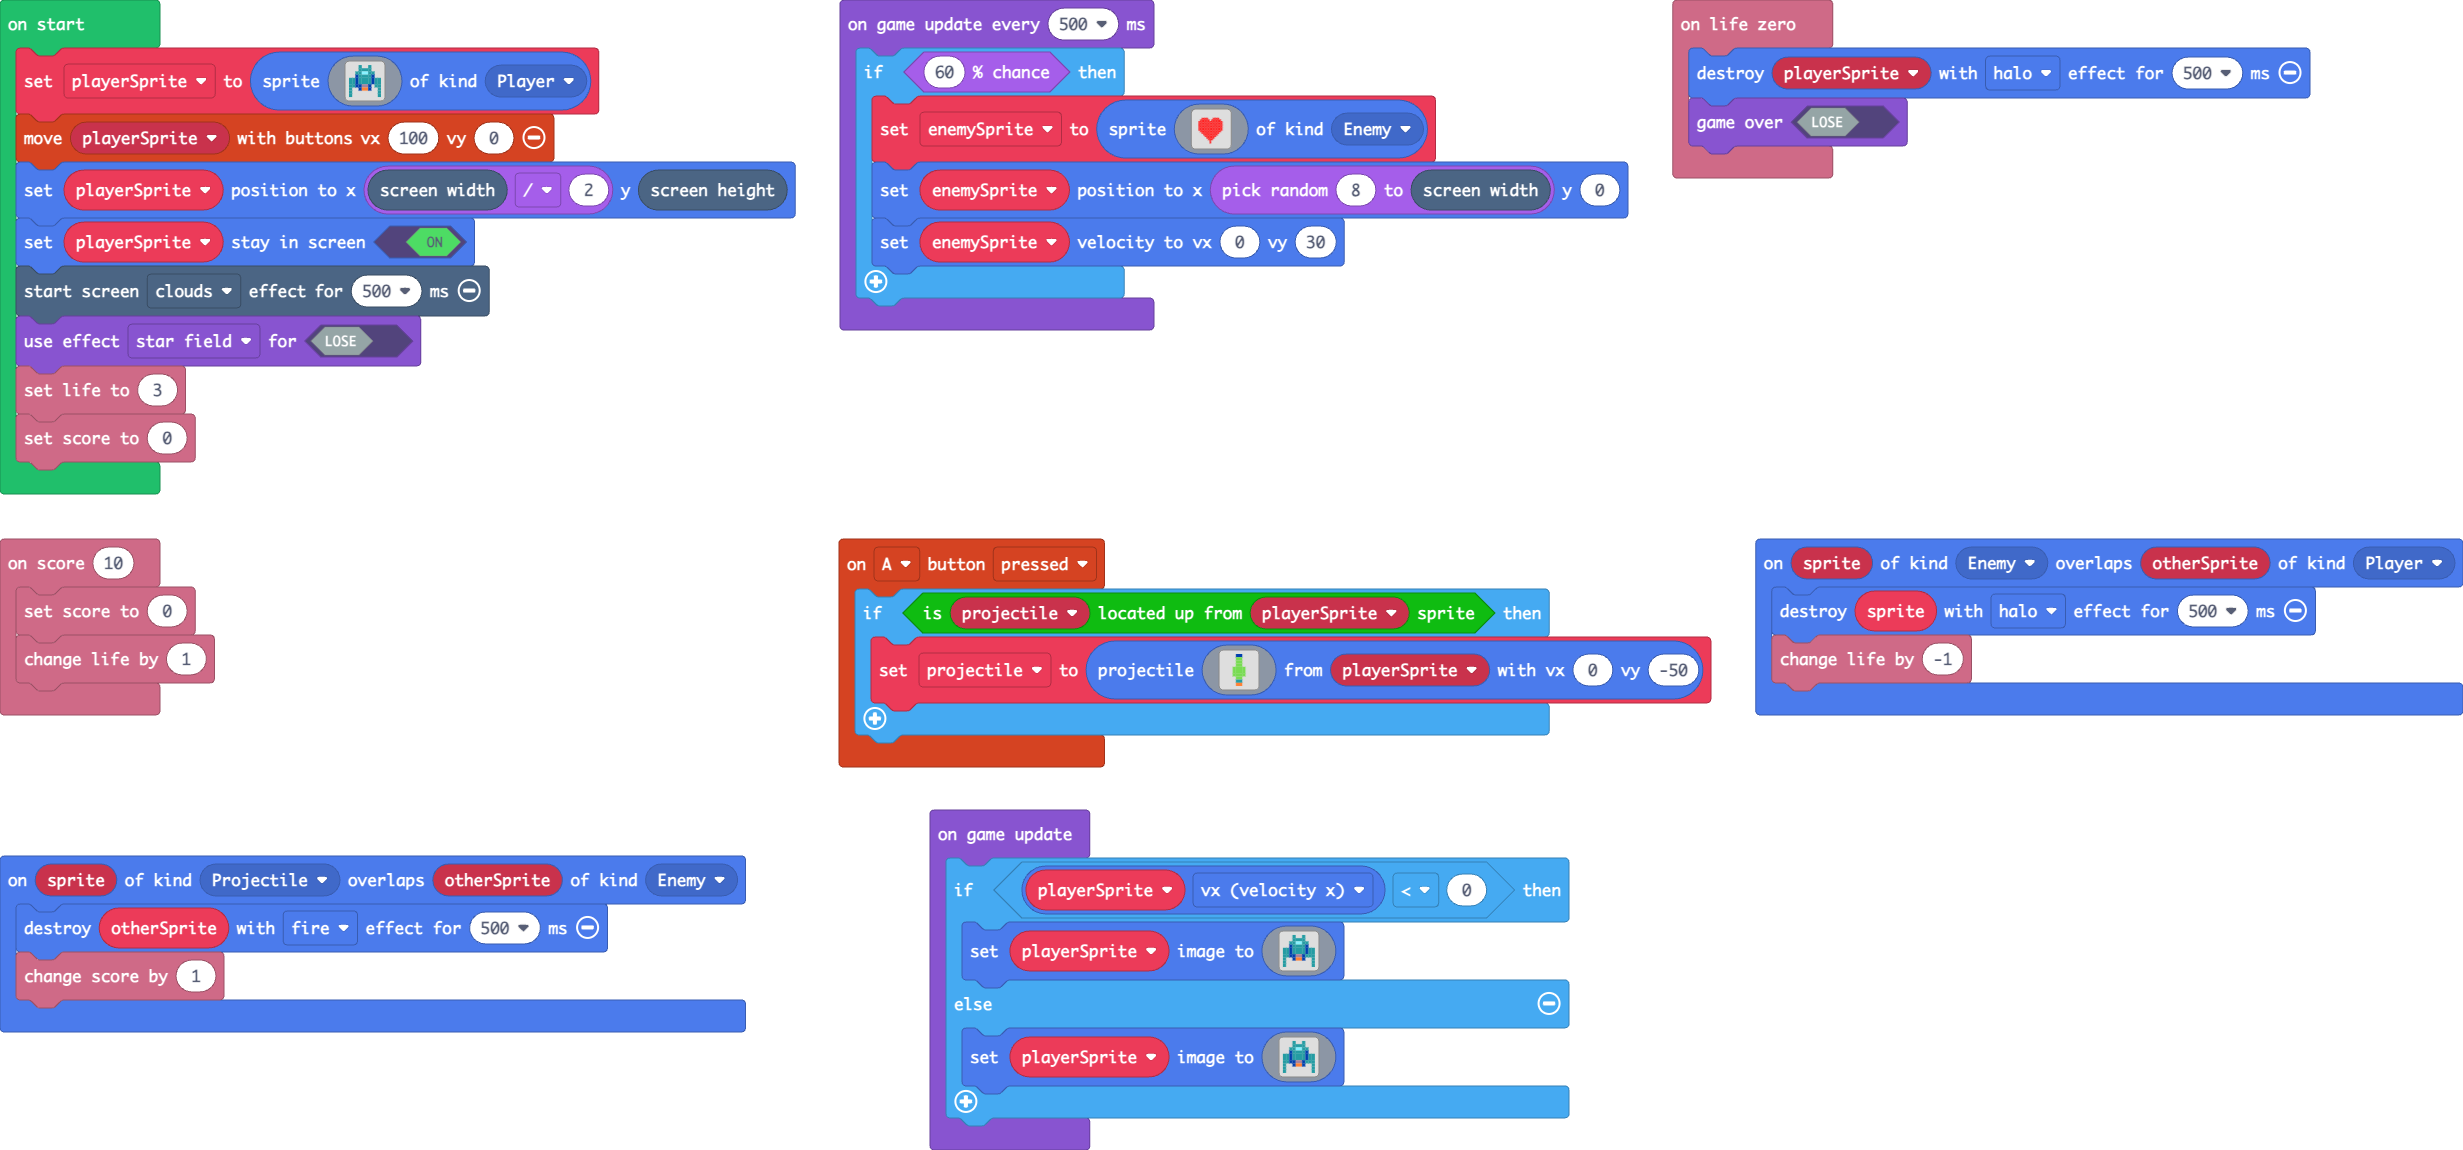
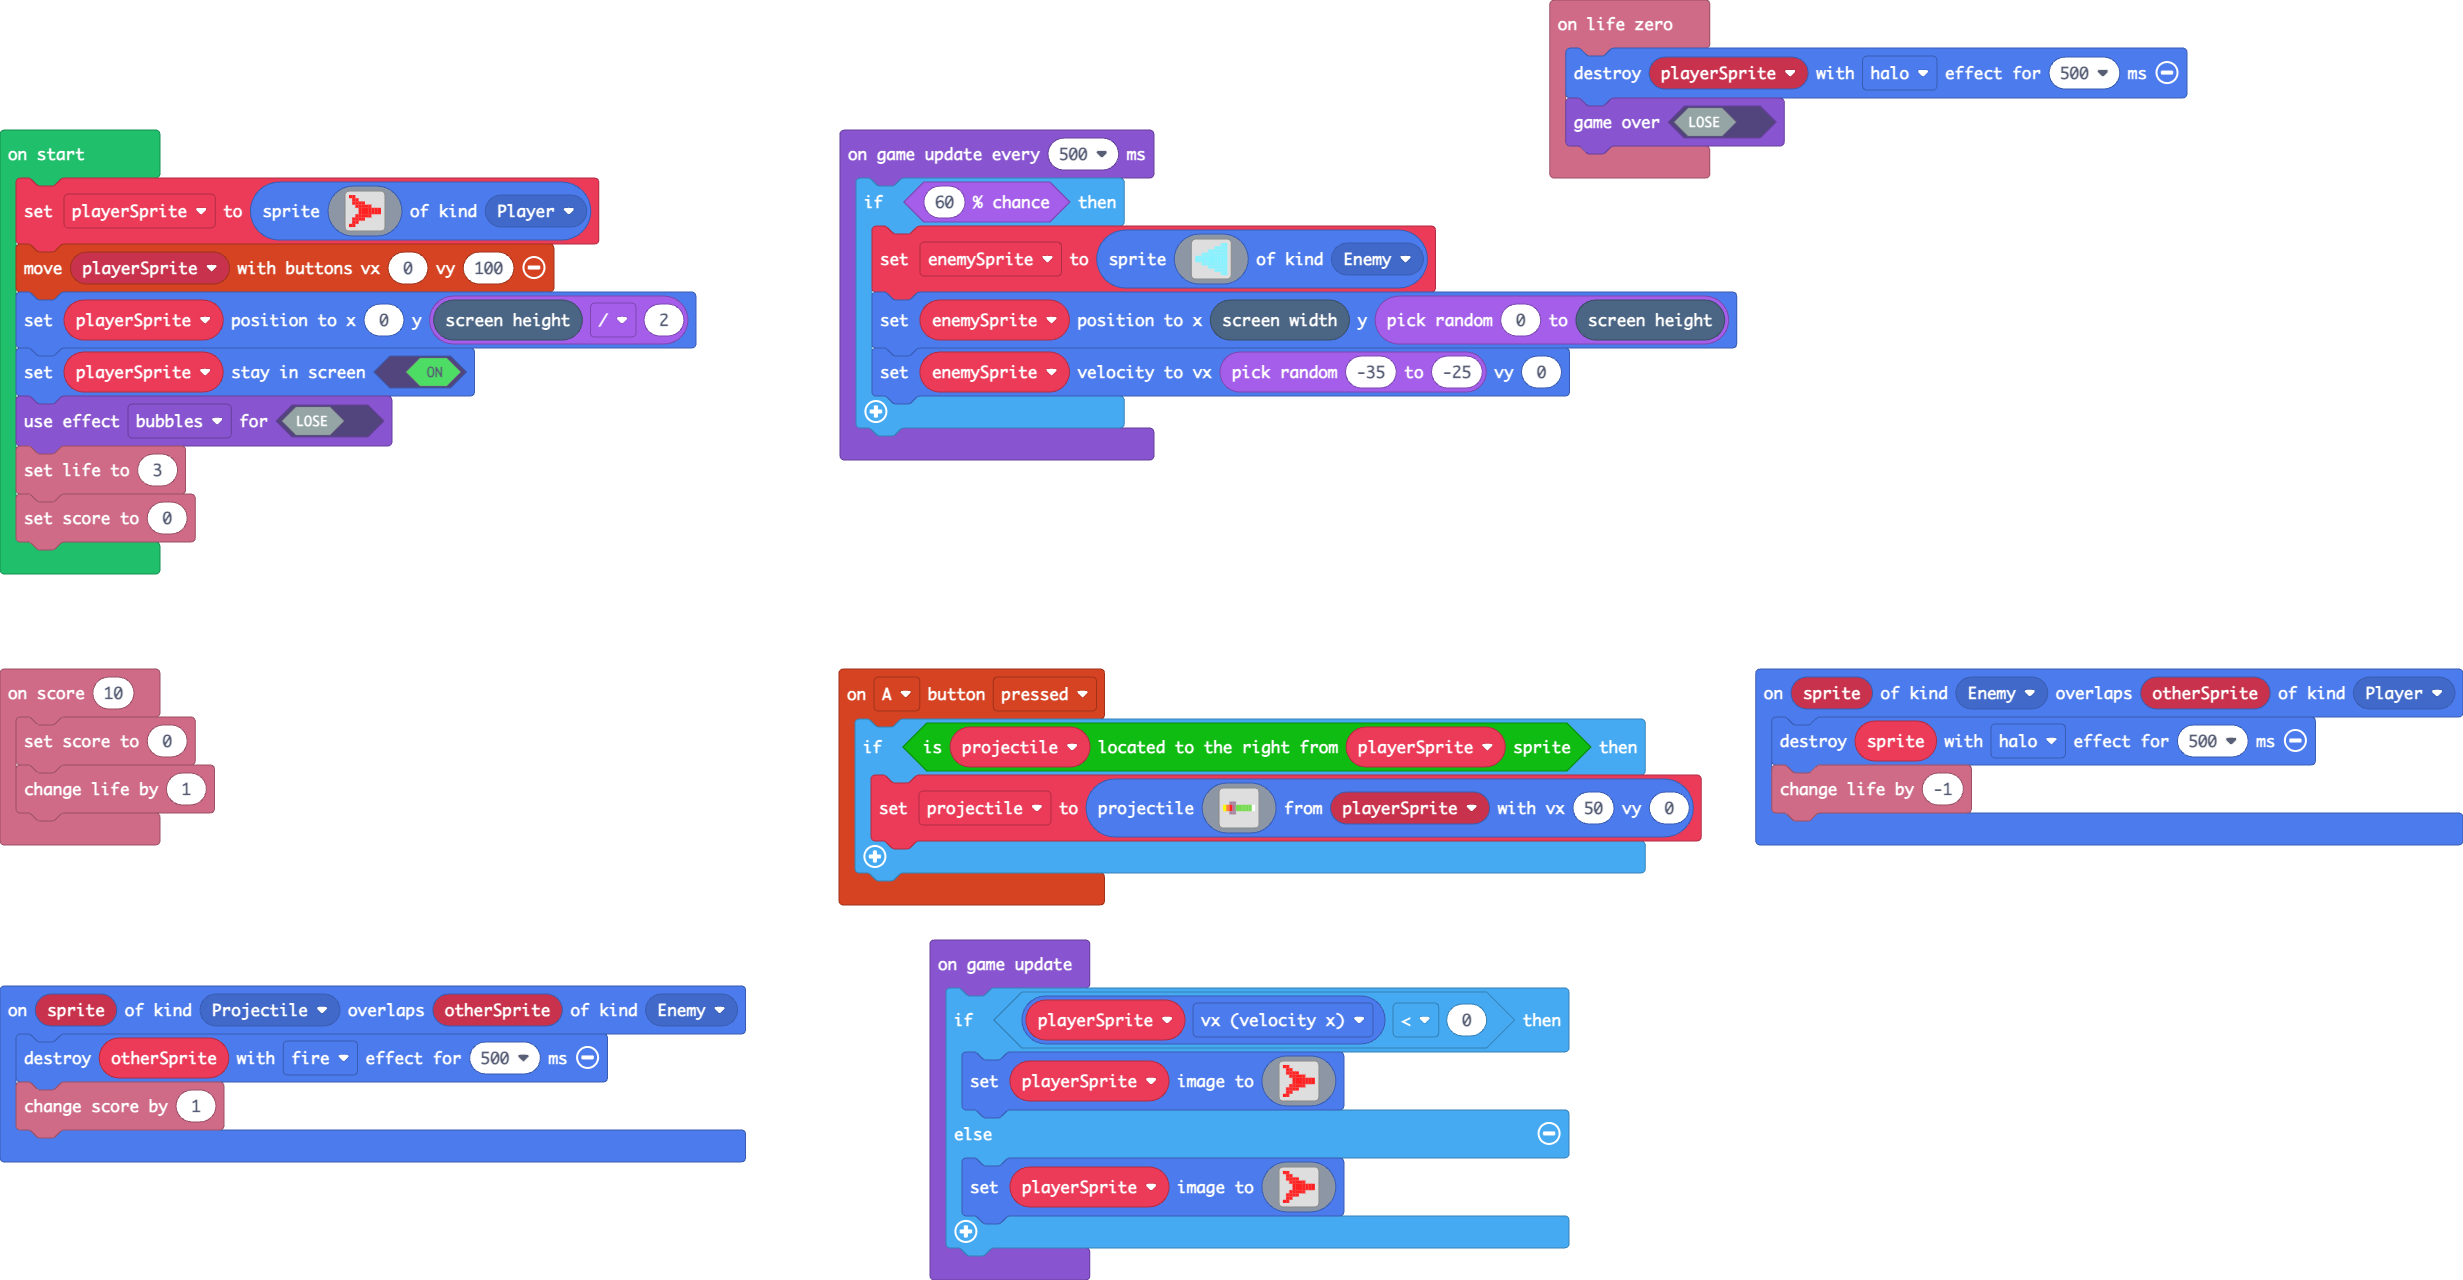
Update main.blocks, main.ts, custom.ts

diff --git a/main.ts b/main.ts
@@ -1,17 +1,17 @@
 controller.A.onEvent(ControllerButtonEvent.Pressed, function () {
-    if (custom.isUpFrom(projectile, playerSprite)) {
+    if (custom.isRightFrom(projectile, playerSprite)) {
         projectile = sprites.createProjectileFromSprite(img`
-            . . . . 8 8 . . . . 
-            . . . . 7 7 . . . . 
-            . . . . 7 7 . . . . 
-            . . . . 7 7 . . . . 
-            . . . 7 7 7 7 . . . 
-            . . . 7 7 7 7 . . . 
-            . . . 7 7 7 7 . . . 
-            . . . . 7 7 . . . . 
-            . . . . 6 6 . . . . 
-            . . . . 4 4 . . . . 
-            `, playerSprite, 0, -50)
+            . . . . . . . . . . 
+            . . . . . . . . . . 
+            . . . . . . . . . . 
+            . . b b . . . . . . 
+            5 4 2 b 7 7 7 7 7 1 
+            5 4 2 b 7 7 7 7 7 1 
+            . . b b . . . . . . 
+            . . . . . . . . . . 
+            . . . . . . . . . . 
+            . . . . . . . . . . 
+            `, playerSprite, 50, 0)
     }
 })
 info.onScore(10, function () {
@@ -34,78 +34,67 @@ let enemySprite: Sprite = null
 let projectile: Sprite = null
 let playerSprite: Sprite = null
 playerSprite = sprites.create(img`
-    . . . 6 . . 6 . . . 
-    . . . 6 6 6 6 . . . 
-    . . 6 6 9 9 6 6 . . 
-    . . 8 6 6 6 6 8 . . 
-    6 6 8 6 6 6 6 8 6 6 
-    6 6 8 6 6 6 6 8 6 6 
-    6 6 8 8 b b 8 . 6 6 
-    6 . . 8 4 4 8 . . 6 
-    6 . . . . . . . . 6 
-    6 . . . . . . . . 6 
+    2 2 . . . . . . . . 
+    . 2 2 . . . . . . . 
+    . 2 2 2 2 . . . . . 
+    . . 2 2 2 2 2 . . . 
+    . . . 2 2 2 2 2 2 2 
+    . . . 2 2 2 2 2 2 2 
+    . . 2 2 2 2 2 . . . 
+    . 2 2 2 2 . . . . . 
+    . 2 2 . . . . . . . 
+    2 2 . . . . . . . . 
     `, SpriteKind.Player)
-controller.moveSprite(playerSprite, 100, 0)
-playerSprite.setPosition(scene.screenWidth() / 2, scene.screenHeight())
+controller.moveSprite(playerSprite, 0, 100)
+playerSprite.setPosition(0, scene.screenHeight() / 2)
 playerSprite.setStayInScreen(true)
-effects.clouds.startScreenEffect(500)
-game.setGameOverEffect(false, effects.starField)
+game.setGameOverEffect(false, effects.bubbles)
 info.setLife(3)
 info.setScore(0)
 game.onUpdate(function () {
     if (playerSprite.vx < 0) {
         playerSprite.setImage(img`
-            . . . 6 . . 6 . . . 
-            . . . 6 6 6 6 . . . 
-            . . 6 6 9 9 6 6 . . 
-            . . 8 6 6 6 6 8 . . 
-            6 6 8 6 6 6 6 8 6 6 
-            6 6 8 6 6 6 6 8 6 6 
-            6 6 8 8 b b 8 6 6 6 
-            6 . . 8 4 4 8 . . 6 
-            6 . . . . . . . . 6 
-            6 . . . . . . . . 6 
+            2 2 . . . . . . . . 
+            . 2 2 . . . . . . . 
+            . 2 2 2 2 . . . . . 
+            . . 2 2 2 2 2 . . . 
+            . . . 2 2 2 2 2 2 2 
+            . . . 2 2 2 2 2 2 2 
+            . . 2 2 2 2 2 . . . 
+            . 2 2 2 2 . . . . . 
+            . 2 2 . . . . . . . 
+            2 2 . . . . . . . . 
             `)
     } else {
         playerSprite.setImage(img`
-            . . . 6 . . 6 . . . 
-            . . . 6 6 6 6 . . . 
-            . . 6 6 9 9 6 6 . . 
-            . . 8 6 6 6 6 8 . . 
-            6 6 8 6 6 6 6 8 6 6 
-            6 6 8 6 6 6 6 8 6 6 
-            6 6 8 8 b b 8 6 6 6 
-            6 . . 8 4 4 8 . . 6 
-            6 . . . . . . . . 6 
-            6 . . . . . . . . 6 
+            2 2 . . . . . . . . 
+            . 2 2 . . . . . . . 
+            . 2 2 2 2 . . . . . 
+            . . 2 2 2 2 2 . . . 
+            . . . 2 2 2 2 2 2 2 
+            . . . 2 2 2 2 2 2 2 
+            . . 2 2 2 2 2 . . . 
+            . 2 2 2 2 . . . . . 
+            . 2 2 . . . . . . . 
+            2 2 . . . . . . . . 
             `)
     }
 })
 game.onUpdateInterval(500, function () {
     if (Math.percentChance(60)) {
         enemySprite = sprites.create(img`
-            ....................
-            ....................
-            ....................
-            ....2222...2222.....
-            ...222222.222222....
-            ..222222222222222...
-            ..222222222222222...
-            ..222222222222222...
-            ..222222222222222...
-            ..222222222222222...
-            ..222222222222222...
-            ...2222222222222....
-            ....22222222222.....
-            .....222222222......
-            ......2222222.......
-            .......22222........
-            ........222.........
-            .........2..........
-            .........2..........
-            ....................
+            . . . . . . . . 9 9 
+            . . . . . . 9 9 9 9 
+            . . . . 9 9 9 9 9 9 
+            . . 9 9 9 9 9 9 9 9 
+            9 9 9 9 9 9 9 9 9 9 
+            9 9 9 9 9 9 9 9 9 9 
+            . . 9 9 9 9 9 9 9 9 
+            . . . . 9 9 9 9 9 9 
+            . . . . . . 9 9 9 9 
+            . . . . . . . . 9 9 
             `, SpriteKind.Enemy)
-        enemySprite.setPosition(randint(8, scene.screenWidth()), 0)
-        enemySprite.setVelocity(0, 30)
+        enemySprite.setPosition(scene.screenWidth(), randint(0, scene.screenHeight()))
+        enemySprite.setVelocity(randint(-35, -25), 0)
     }
 })

diff --git a/custom.ts b/custom.ts
@@ -13,7 +13,21 @@ namespace custom {
         if (sprite && reference) {
             return sprite.bottom < reference.top;
         }
-        screen.drawLine(0,0,100,100,8);
+        return true;
+    }
+
+    /**
+     * Check if one sprite is located to the right on the screen than another one
+     */
+    //% block="is $sprite located to the right from $reference sprite"
+    //% sprite.defl=sprite
+    //% sprite.shadow=variables_get
+    //% reference.defl=reference
+    //% reference.shadow=variables_get
+    export function isRightFrom(sprite: Sprite, reference: Sprite): boolean {
+        if (sprite && reference) {
+            return sprite.left > reference.right;
+        }
         return true;
     }
 
